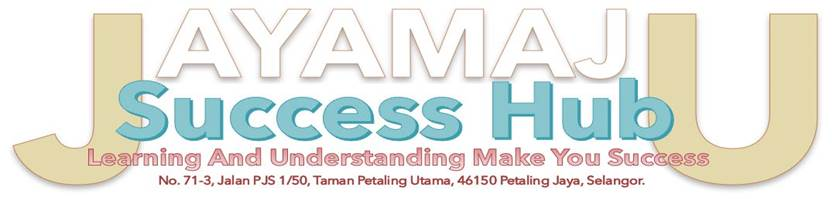
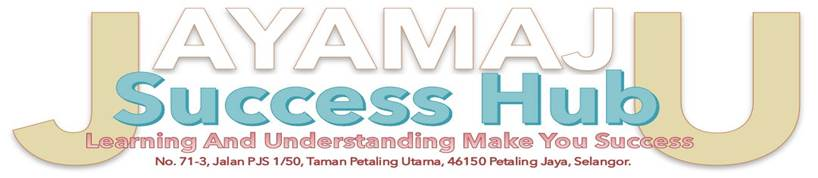
h

diff --git a/permohonan.html b/permohonan.html
@@ -772,7 +772,7 @@ break-word'>
   <p class=MsoNormal style='margin-bottom:0cm;line-height:normal'>&nbsp;</p>
   </td>
   <td width=822 valign=top style='width:616.65pt;padding:0cm 5.4pt 0cm 5.4pt'>
-  <p class=MsoNormal style='margin-bottom:0cm;line-height:normal'>&nbsp;</p>
+  <p class=MsoNormal style='margin-bottom:0cm;line-height:normal'><o:p>&nbsp;</o:p></p>
   </td>
   <td width=47 valign=top style='width:35.4pt;padding:0cm 5.4pt 0cm 5.4pt'>
   <p class=MsoNormal style='margin-bottom:0cm;line-height:normal'>&nbsp;</p>
@@ -783,34 +783,8 @@ break-word'>
   <p class=MsoNormal style='margin-bottom:0cm;line-height:normal'>&nbsp;<o:p></o:p></p>
   </td>
   <td width=822 valign=top style='width:616.65pt;padding:0cm 5.4pt 0cm 5.4pt'>
-  <p class=MsoNormal style='margin-bottom:0cm;line-height:normal;box-shadow: 8px 8px 15px rgba(0, 0, 0, 0.5)'><a
-  href="index.html"><span style='color:windowtext;mso-no-proof:yes;text-decoration:
-  none;text-underline:none'><!--[if gte vml 1]><v:shapetype id="_x0000_t75"
-   coordsize="21600,21600" o:spt="75" o:preferrelative="t" path="m@4@5l@4@11@9@11@9@5xe"
-   filled="f" stroked="f">
-   <v:stroke joinstyle="miter"/>
-   <v:formulas>
-    <v:f eqn="if lineDrawn pixelLineWidth 0"/>
-    <v:f eqn="sum @0 1 0"/>
-    <v:f eqn="sum 0 0 @1"/>
-    <v:f eqn="prod @2 1 2"/>
-    <v:f eqn="prod @3 21600 pixelWidth"/>
-    <v:f eqn="prod @3 21600 pixelHeight"/>
-    <v:f eqn="sum @0 0 1"/>
-    <v:f eqn="prod @6 1 2"/>
-    <v:f eqn="prod @7 21600 pixelWidth"/>
-    <v:f eqn="sum @8 21600 0"/>
-    <v:f eqn="prod @7 21600 pixelHeight"/>
-    <v:f eqn="sum @10 21600 0"/>
-   </v:formulas>
-   <v:path o:extrusionok="f" gradientshapeok="t" o:connecttype="rect"/>
-   <o:lock v:ext="edit" aspectratio="t"/>
-  </v:shapetype><v:shape id="Picture_x0020_1" o:spid="_x0000_i1025" type="#_x0000_t75"
-   href="index.html" style='width:627pt;height:149.25pt;visibility:visible;
-   mso-wrap-style:square' o:button="t">
-   <v:imagedata src="permohonan_files/image001.jpg" o:title=""/>
-  </v:shape><![endif]--><![if !vml]><span style='mso-ignore:vglayout'><img
-  border=0 width=836 height=199 src="permohonan_files/image002.jpg" v:shapes="Picture_x0020_1"></span><![endif]></span></a></p>
+  <p class=MsoNormal align=center style='margin-bottom:0cm;text-align:center;
+  line-height:normal;box-shadow: 8px 8px 15px rgba(0, 0, 0, 0.5)'><o:p>&nbsp;</o:p></p>
   </td>
   <td width=47 valign=top style='width:35.4pt;padding:0cm 5.4pt 0cm 5.4pt'>
   <p class=MsoNormal style='margin-bottom:0cm;line-height:normal'>&nbsp;</p>
@@ -832,6 +806,35 @@ break-word'>
   <p class=MsoNormal style='margin-bottom:0cm;line-height:normal'>&nbsp;</p>
   </td>
   <td width=822 valign=top style='width:616.65pt;padding:0cm 5.4pt 0cm 5.4pt'>
+  <p class=MsoNormal align=center style='margin-bottom:0cm;text-align:center;
+  line-height:normal'><span style='font-size:14.0pt;mso-no-proof:yes'><!--[if gte vml 1]><v:shapetype
+   id="_x0000_t75" coordsize="21600,21600" o:spt="75" o:preferrelative="t"
+   path="m@4@5l@4@11@9@11@9@5xe" filled="f" stroked="f">
+   <v:stroke joinstyle="miter"/>
+   <v:formulas>
+    <v:f eqn="if lineDrawn pixelLineWidth 0"/>
+    <v:f eqn="sum @0 1 0"/>
+    <v:f eqn="sum 0 0 @1"/>
+    <v:f eqn="prod @2 1 2"/>
+    <v:f eqn="prod @3 21600 pixelWidth"/>
+    <v:f eqn="prod @3 21600 pixelHeight"/>
+    <v:f eqn="sum @0 0 1"/>
+    <v:f eqn="prod @6 1 2"/>
+    <v:f eqn="prod @7 21600 pixelWidth"/>
+    <v:f eqn="sum @8 21600 0"/>
+    <v:f eqn="prod @7 21600 pixelHeight"/>
+    <v:f eqn="sum @10 21600 0"/>
+   </v:formulas>
+   <v:path o:extrusionok="f" gradientshapeok="t" o:connecttype="rect"/>
+   <o:lock v:ext="edit" aspectratio="t"/>
+  </v:shapetype><v:shape id="Picture_x0020_2" o:spid="_x0000_i1025" type="#_x0000_t75"
+   alt="A white text with blue and red letters&#10;&#10;Description automatically generated"
+   style='width:613.5pt;height:177.75pt;visibility:visible;mso-wrap-style:square'>
+   <v:imagedata src="permohonan_files/image001.jpg" o:title="A white text with blue and red letters&#10;&#10;Description automatically generated"/>
+  </v:shape><![endif]--><![if !vml]><img width=818 height=237
+  src="permohonan_files/image003.jpg"
+  alt="A white text with blue and red letters&#10;&#10;Description automatically generated"
+  v:shapes="Picture_x0020_2"><![endif]></span><span style='font-size:14.0pt'><o:p></o:p></span></p>
   <p class=MsoNormal align=center style='margin-bottom:0cm;text-align:center;
   line-height:normal'><span style='font-size:14.0pt'><o:p>&nbsp;</o:p></span></p>
   <p class=MsoNormal align=center style='margin-bottom:0cm;text-align:center;
@@ -993,8 +996,8 @@ break-word'>
   </td>
   <td width=822 valign=top style='width:616.65pt;padding:0cm 5.4pt 0cm 5.4pt'>
   <p class=MsoNormal align=center style='margin-bottom:0cm;text-align:center;
-  line-height:normal'><b><span style='font-size:20.0pt;color:#104862'>Pindah Milik
-  Lesen</span></b></p>
+  line-height:normal'><b><span style='font-size:20.0pt;color:#104862'>Pindah
+  Milik Lesen</span></b></p>
   </td>
   <td width=47 valign=top style='width:35.4pt;padding:0cm 5.4pt 0cm 5.4pt'>
   <p class=MsoNormal style='margin-bottom:0cm;line-height:normal'>&nbsp;</p>
